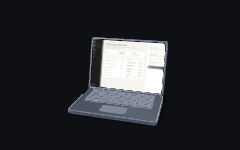
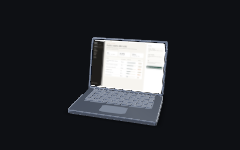
fix(demo): show complete tablet laptop and card screenshots

diff --git a/src/screen/demo.test.ts b/src/screen/demo.test.ts
@@ -6,6 +6,7 @@ import { snapshotState } from '../state/codec';
 import { DEVICE_IDS } from '../devices/presets';
 import { demoFit, type DemoImages } from './demo';
 import { latestImageLoader } from './load';
+import { fitTransform } from './fit';
 const image = (width: number, height: number) => ({
   bitmap: { width, height, close: vi.fn() } as unknown as ImageBitmap,
   meta: { width, height, originalWidth: width, originalHeight: height, cap: 8192, downscaled: false, identity: 'demo' as const },
@@ -29,12 +30,14 @@ describe('T-P9d demo selection and ownership',()=>{
   }
   for(const id of DEVICE_IDS){
    store.setDevice(id);expect(texture()).toBe(id==='phone'?portrait:landscape);
-   expect(stage.getImage()).toMatchObject({identity:'demo',originalWidth:id==='phone'?845:2880,fit:id==='phone'?'contain':'cover'});
+   expect(stage.getImage()).toMatchObject({identity:'demo',originalWidth:id==='phone'?845:2880,fit:id==='browser'?'cover':'contain'});
   }
-  store.compose('dark-laptop');expect(store.get()).toMatchObject({fit:'cover',composition:'dark-laptop'});
-  store.apply({fit:'contain'});const shared=snapshotState(store.get(),false);
-  store.reset();expect(texture()).toBe(portrait);store.hydrate(shared);
-  expect(texture()).toBe(landscape);expect(store.get().fit).toBe('contain');
+  store.compose('dark-laptop');expect(store.get()).toMatchObject({fit:'contain',composition:'dark-laptop'});
+  for (const fit of ['contain','cover'] as const) {
+   store.apply({fit});const shared=snapshotState(store.get(),false);
+   store.reset();expect(texture()).toBe(portrait);store.hydrate(shared);
+   expect(texture()).toBe(landscape);expect(store.get().fit).toBe(fit);
+  }
   expect(demos.portrait.bitmap.close).not.toHaveBeenCalled();expect(demos.landscape.bitmap.close).not.toHaveBeenCalled();
   store.dispose();stage.dispose();stage.dispose();
   expect(demos.portrait.bitmap.close).toHaveBeenCalledTimes(1);expect(demos.landscape.bitmap.close).toHaveBeenCalledTimes(1);
@@ -65,7 +68,19 @@ describe('T-P9d demo selection and ownership',()=>{
   await expect(fail('invalid')).rejects.toThrow('bad image');store.setDevice('card');expect(texture()).toBe(upload);
   stage.dispose();store.dispose();
  });
- it('keeps the phone contain recipe and fills wide demo classes',()=>{
-  expect(demoFit('phone')).toBe('contain');for(const id of ['tablet','laptop','browser','card'] as const)expect(demoFit(id)).toBe('cover');
+ it('keeps the full landscape image inside tablet, laptop and card without distortion',()=>{
+  expect(demoFit('phone')).toBe('contain');expect(demoFit('browser')).toBe('cover');
+  const {stage,store}=setup();
+  try {
+   for(const id of ['tablet','laptop','card'] as const){
+    store.setDevice(id);
+    const image=stage.getImage()!;const screen=stage.getRig().screenSize;
+    const fitted=fitTransform({w:image.width,h:image.height},screen,image.fit,image.pad);
+    expect(fitted.image.w).toBeLessThanOrEqual(screen.w+1e-12);
+    expect(fitted.image.h).toBeLessThanOrEqual(screen.h+1e-12);
+    expect(fitted.image.w/fitted.image.h).toBeCloseTo(2880/1800,12);
+    expect(image.fit).toBe('contain');
+   }
+  } finally {store.dispose();stage.dispose();}
  });
 });

diff --git a/guards/demo-edges.test.ts b/guards/demo-edges.test.ts
@@ -18,7 +18,7 @@ it('T-P9d real controls choose full demo screens and retain an uploaded image',a
   for(const id of ['tablet','laptop','card','browser','phone'] as const){
    await page.getByLabel('Device',{exact:true}).selectOption(id);
    expect(await page.evaluate(()=>window.__plinth.getImage())).toMatchObject({identity:'demo',originalWidth:id==='phone'?845:2880,originalHeight:id==='phone'?1862:1800});
-   expect(await page.locator('#control-fit').inputValue()).toBe(id==='phone'?'contain':'cover');
+   expect(await page.locator('#control-fit').inputValue()).toBe(id==='browser'?'cover':'contain');
   }
   const screenshot=PNG.sync.read(await page.screenshot());
   const boxes=await page.evaluate(()=>({stage:document.querySelector('#stage')!.getBoundingClientRect().toJSON(),workspace:document.querySelector('#workspace')!.getBoundingClientRect().toJSON()}));
@@ -66,6 +66,6 @@ it('T-P9d clean-white card actual render has a neutral white background',async()
   for(const [x,y] of [[4,4],[640,4],[1275,4],[4,400],[1275,400]]){
    const offset=(y!*png.width+x!)*4;expect([...png.data.subarray(offset,offset+4)]).toEqual([255,255,255,255]);
   }
-  expect(await page.evaluate(()=>window.__plinth.getImage())).toMatchObject({originalWidth:2880,originalHeight:1800,fit:'cover'});
+  expect(await page.evaluate(()=>window.__plinth.getImage())).toMatchObject({originalWidth:2880,originalHeight:1800,fit:'contain'});
  } finally{await page.close();}
 });

diff --git a/src/screen/demo.ts b/src/screen/demo.ts
@@ -4,7 +4,9 @@ import { loadImage } from './load';
 
 export type DemoImage = Awaited<ReturnType<typeof loadImage>>;
 export interface DemoImages { portrait: DemoImage; landscape: DemoImage }
-export const demoFit = (device: DeviceId): FitMode => device === 'phone' ? 'contain' : 'cover';
+// Preserve the complete screenshot on physical screens and card; browser's
+// existing cover recipe is unchanged by the owner's three-device correction.
+export const demoFit = (device: DeviceId): FitMode => device === 'browser' ? 'cover' : 'contain';
 
 /** Stage takes ownership only once both local images have decoded. */
 export async function loadDemoImages(base: string, cap: number): Promise<DemoImages> {

diff --git a/guards/pg-mode.test.ts b/guards/pg-mode.test.ts
@@ -113,7 +113,7 @@ import { PNG } from 'pngjs';
 
 it.each([
   ['phone', 845, 1862, 'contain'],
-  ['tablet', 2880, 1800, 'cover'],
+  ['tablet', 2880, 1800, 'contain'],
 ] as const)('T-P3/T-P9d: %s first ready transition contains its committed demo, after image/SDF warm-up', async (device, originalWidth, originalHeight, fit) => {
   const page = await browser.newPage({ viewport: { width: 1280, height: 800 }, deviceScaleFactor: 1 });
   try {

diff --git a/docs/tickets/T-P9d.md b/docs/tickets/T-P9d.md
@@ -1,7 +1,7 @@
 # T-P9d — appropriate demos and continuous screen edges
 
 Document of record: PLINTH_SPEC §2, §4.1/P-9, §4.4/P-6/P-7,
-§4.6/P-13, §4.8/P-14, §7. Research: T-P9d-research F1–F6.
+§4.6/P-13, §4.8/P-14, §7. Research: T-P9d-research F1–F7.
 Builder: Codex (backend model identifier not exposed).
 Owner feedback expands polish beyond T-P9c's original no-screen-shader scope;
 this separate ticket/PR records that boundary, stacked on PR #27.
@@ -11,7 +11,8 @@ this separate ticket/PR records that boundary, stacked on PR #27.
 1. Restore exact approved landscape demo; keep portrait on phone and landscape
    on all wide classes. Cache/mount synchronously, with explicit disposal and
    recovery ownership. A user image supersedes the demo bank permanently.
-2. Wide demo startup/device/preset choices show Cover in the actual Fit control.
+2. After owner review (F7), phone/tablet/laptop/card demo startup/device/preset
+   choices show Contain; browser keeps Cover in the actual Fit control.
    Preserve user-image behavior and explicit shared-state settings.
 3. Replace stochastic edge coverage with deterministic SDF alpha testing and
    existing SMAA. Compare native edge captures; keep opaque physical screen,
@@ -23,7 +24,7 @@ this separate ticket/PR records that boundary, stacked on PR #27.
 
 ## Acceptance / write set
 
-Use F1–F6's write set. Add lifecycle/demo-choice tests and a focused real-browser
+Use F1–F7's write set. Add lifecycle/demo-choice tests and a focused real-browser
 regression for image switching, upload preservation, neutral clean-white,
 matching workspace gutters and non-hashed edge shader. Extend the existing
 first-ready guard to both phone and tablet with their exact source dimensions
@@ -33,6 +34,9 @@ new CI PG/PNG and independent review remain required. Baselines remain read-only
 no bless, merge, deploy or competition submission.
 
 ## Implementation evidence
+
+The following records the first reviewed candidate. F7 below supersedes its
+tablet/laptop/card Cover defaults; the portrait/landscape assets stay identical.
 
 - Restored landscape bytes from bdebd02: 2880x1800, 259141 bytes,
   SHA256 72128b4a216b772a1215424906b321e1f9472b1e2165fcb144e29ef81f97d585.
@@ -73,3 +77,13 @@ no bless, merge, deploy or competition submission.
   public assets and capture script remain identical to the captured 02ebd48.
 - Cloud CI/PG/PNG and independent review remain pending. Owner did not bless
   the prior candidate set; fixtures remain unchanged. No merge or deployment.
+
+## F7 — uncropped three-device follow-up
+
+Owner identified cropped left/right content in tablet/laptop/card. Their demo
+defaults now use Contain, preserving the full 2880x1800 image without stretching;
+small top/bottom margins are intentional. Phone and browser defaults are kept.
+Existing default-Fit expectations are updated in place with all actions and
+readiness checks retained. Coverage includes both explicit shared Fit values
+and image bounds/aspect within the three real screen rectangles. Final capture,
+CI/build and publication results will be recorded after completion.
